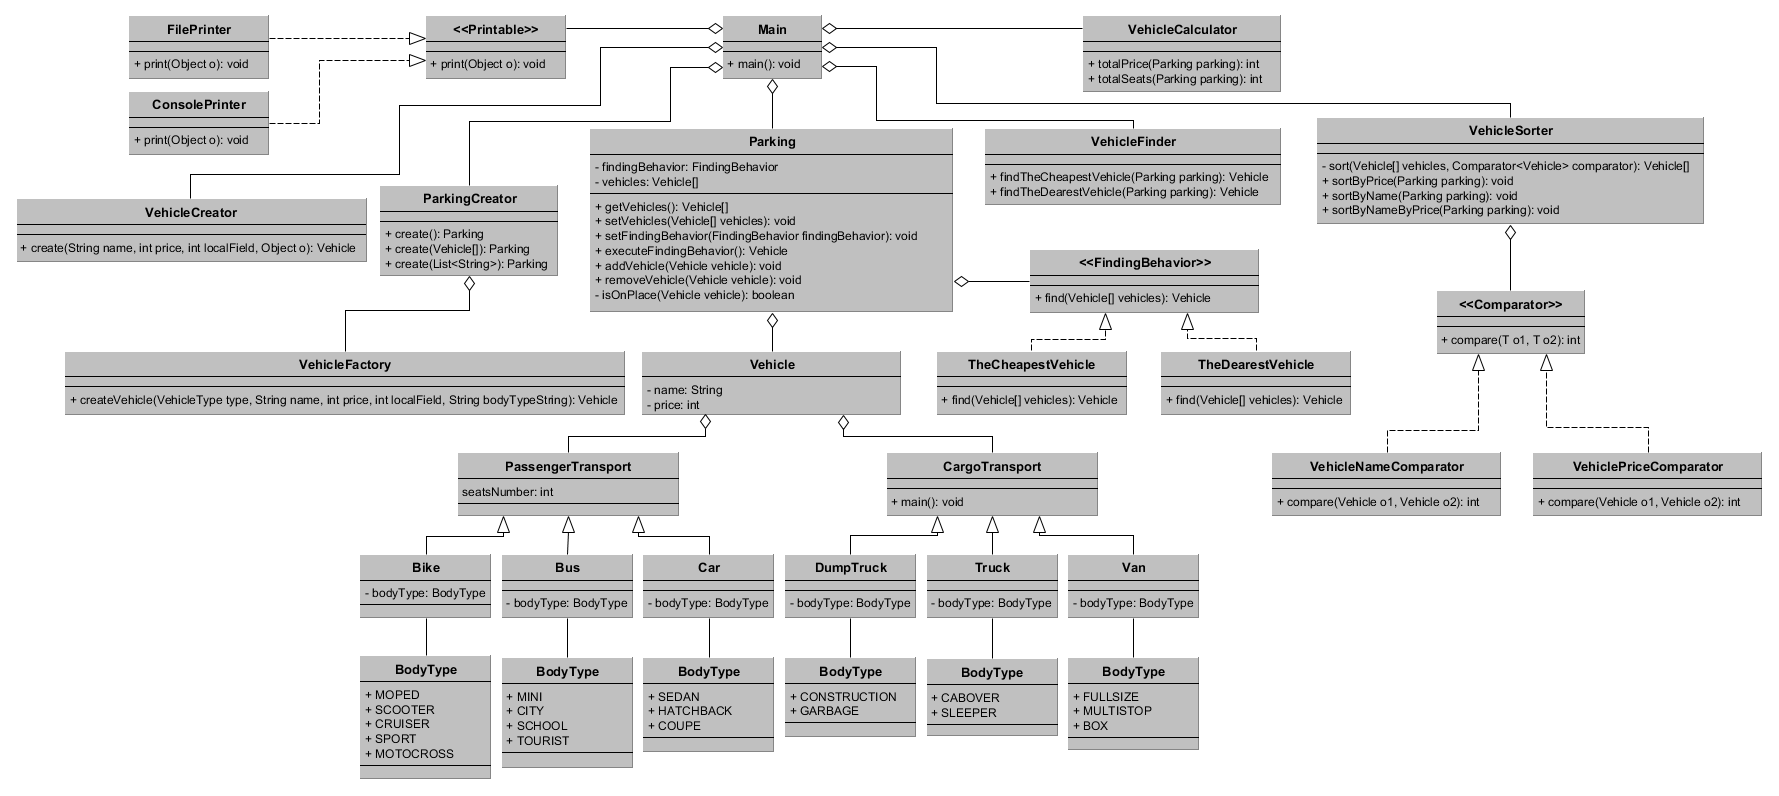
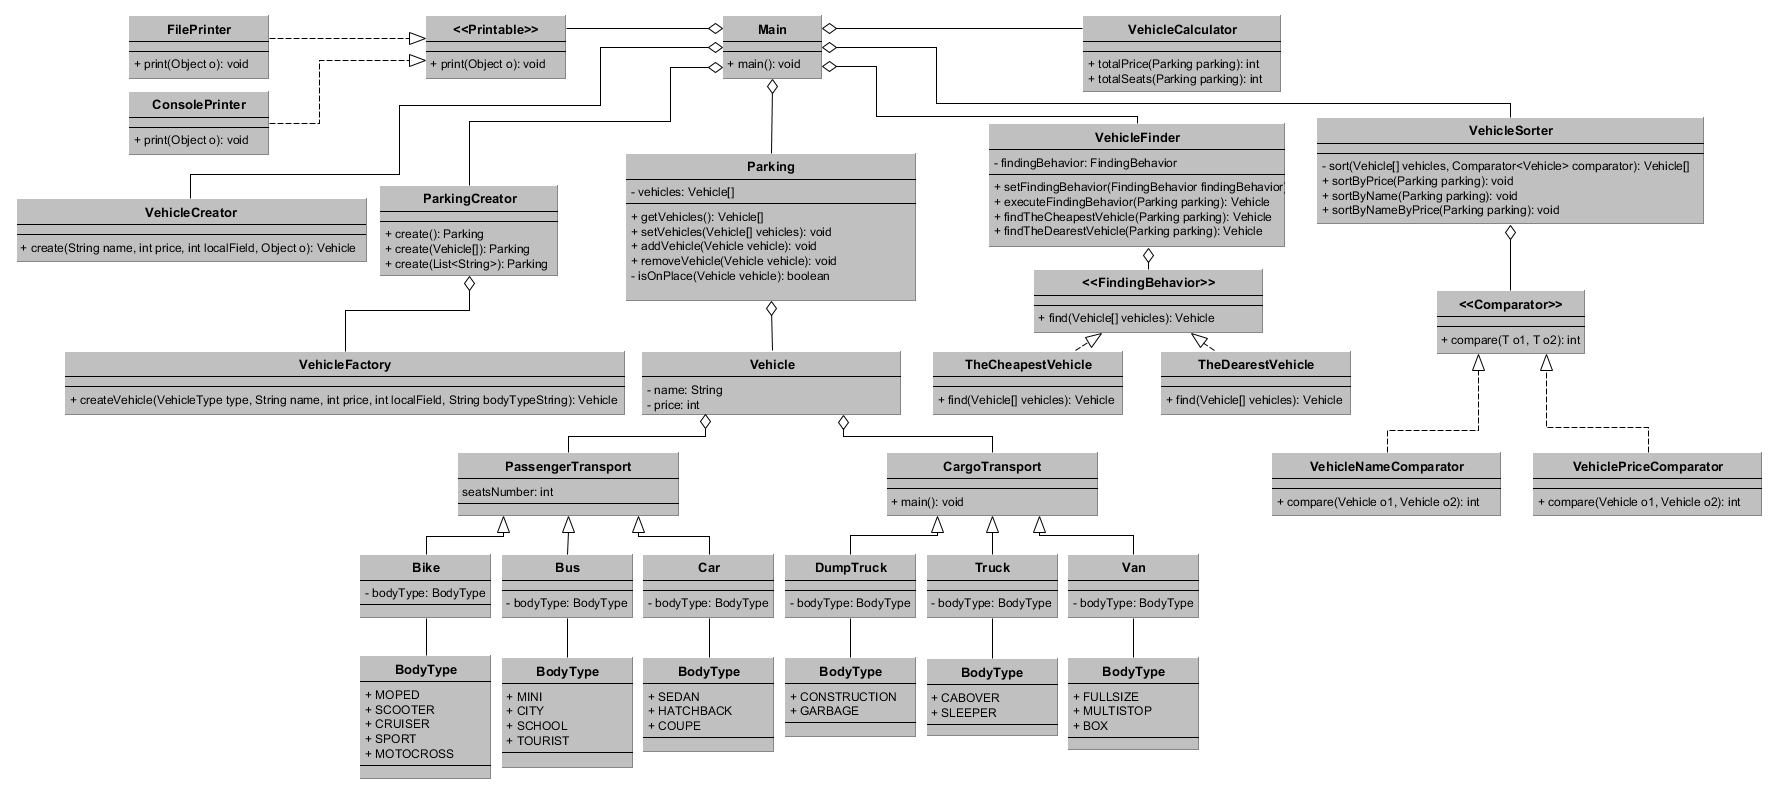
UML diagram

Changed region(s): [[0.3092, 0.1508, 0.742, 0.5126]]

diff --git a/src/by/epam/javawebtraining/stanislaupalaukou/task01/controller/Main.java b/src/by/epam/javawebtraining/stanislaupalaukou/task01/controller/Main.java
@@ -100,16 +100,17 @@ public class Main {
             printer.print("The dearest vehicle in the parking lot: " + VehicleFinder.findTheDearestVehicle(parking));
             printer.print("The cheapest vehicle in the parking lot: " + VehicleFinder.findTheCheapestVehicle(parking));
 
+            VehicleFinder vehicleFinder = new VehicleFinder();
             printer.print("----------------------");
             printer.print("Strategy Pattern");
             printer.print("----------------------");
             printer.print("The Cheapest Vehicle");
-            parking.setFindingBehavior(new TheCheapestVehicle());
-            printer.print(parking.executeFindingBehavior());
+            vehicleFinder.setFindingBehavior(new TheCheapestVehicle());
+            printer.print(vehicleFinder.executeFindingBehavior(parking));
             printer.print("----------------------");
             printer.print("The Dearest Vehicle");
-            parking.setFindingBehavior(new TheDearestVehicle());
-            printer.print(parking.executeFindingBehavior());
+            vehicleFinder.setFindingBehavior(new TheDearestVehicle());
+            printer.print(vehicleFinder.executeFindingBehavior(parking));
             printer.print("----------------------");
 
             //Removing all vehicles from the parking and demonstrating ParkingIsEmptyException

diff --git a/src/by/epam/javawebtraining/stanislaupalaukou/task01/model/entity/container/Parking.java b/src/by/epam/javawebtraining/stanislaupalaukou/task01/model/entity/container/Parking.java
@@ -2,7 +2,6 @@ package by.epam.javawebtraining.stanislaupalaukou.task01.model.entity.container;
 
 import by.epam.javawebtraining.stanislaupalaukou.task01.model.entity.Vehicle;
 import by.epam.javawebtraining.stanislaupalaukou.task01.model.exception.logical.*;
-import by.epam.javawebtraining.stanislaupalaukou.task01.model.logic.pattern.strategy.FindingBehavior;
 import org.apache.log4j.Logger;
 
 import java.util.Arrays;
@@ -18,8 +17,6 @@ import java.util.Arrays;
 public class Parking {
 
     private static final Logger logger = Logger.getLogger(Parking.class);
-
-    private FindingBehavior findingBehavior;
 
     private Vehicle[] vehicles;
 
@@ -53,14 +50,6 @@ public class Parking {
         } else {
             throw new NullParkingException();
         }
-    }
-
-    public void setFindingBehavior(FindingBehavior findingBehavior) {
-        this.findingBehavior = findingBehavior;
-    }
-
-    public Vehicle executeFindingBehavior() throws NullParkingException {
-        return findingBehavior.find(vehicles);
     }
 
     public void addVehicle(Vehicle vehicle) throws NullVehicleException {

diff --git a/src/by/epam/javawebtraining/stanislaupalaukou/task01/model/logic/VehicleFinder.java b/src/by/epam/javawebtraining/stanislaupalaukou/task01/model/logic/VehicleFinder.java
@@ -5,6 +5,7 @@ import by.epam.javawebtraining.stanislaupalaukou.task01.model.entity.Vehicle;
 import by.epam.javawebtraining.stanislaupalaukou.task01.model.exception.logical.NullParkingException;
 import by.epam.javawebtraining.stanislaupalaukou.task01.model.exception.logical.NullVehicleException;
 import by.epam.javawebtraining.stanislaupalaukou.task01.model.exception.logical.VehicleArrayException;
+import by.epam.javawebtraining.stanislaupalaukou.task01.model.logic.pattern.strategy.FindingBehavior;
 import org.apache.log4j.Logger;
 
 /**
@@ -18,6 +19,16 @@ import org.apache.log4j.Logger;
 public class VehicleFinder {
 
   private static final Logger logger = Logger.getLogger(VehicleFinder.class);
+
+  private FindingBehavior findingBehavior;
+
+  public void setFindingBehavior(FindingBehavior findingBehavior) {
+    this.findingBehavior = findingBehavior;
+  }
+
+  public Vehicle executeFindingBehavior(Parking parking) throws NullParkingException {
+    return findingBehavior.find(parking.getVehicles());
+  }
 
   /**
    * The method finds the cheapest Vehicle
